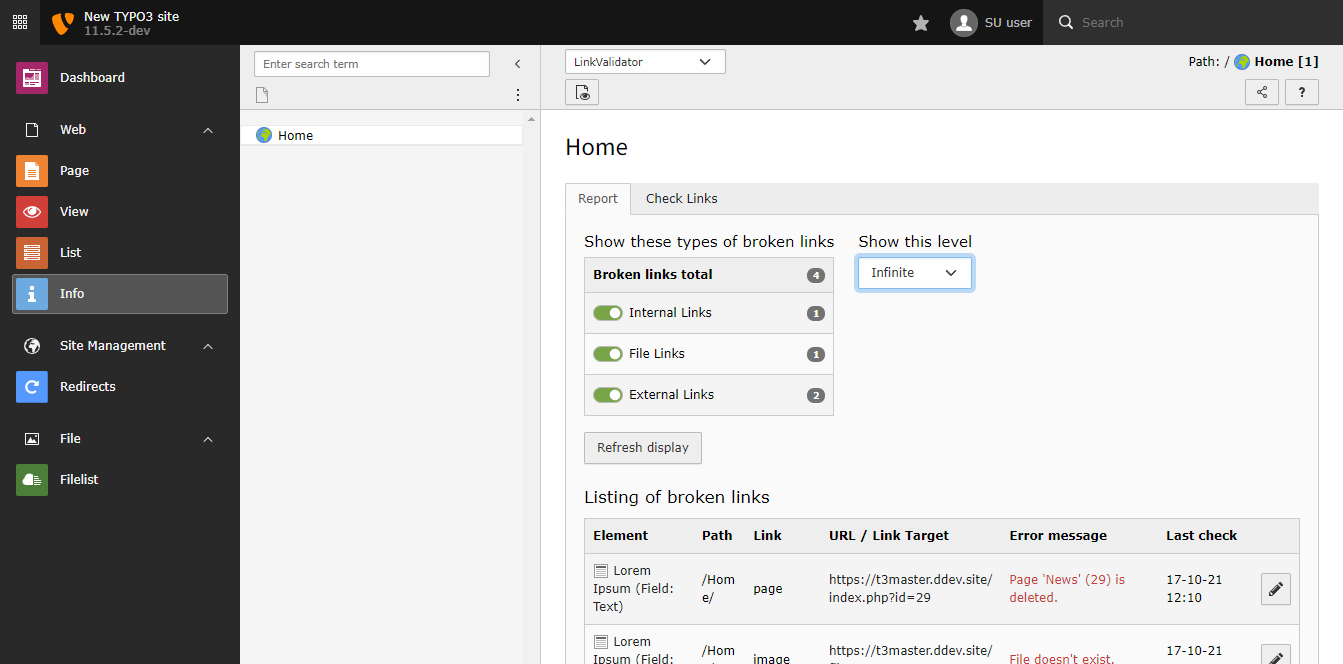
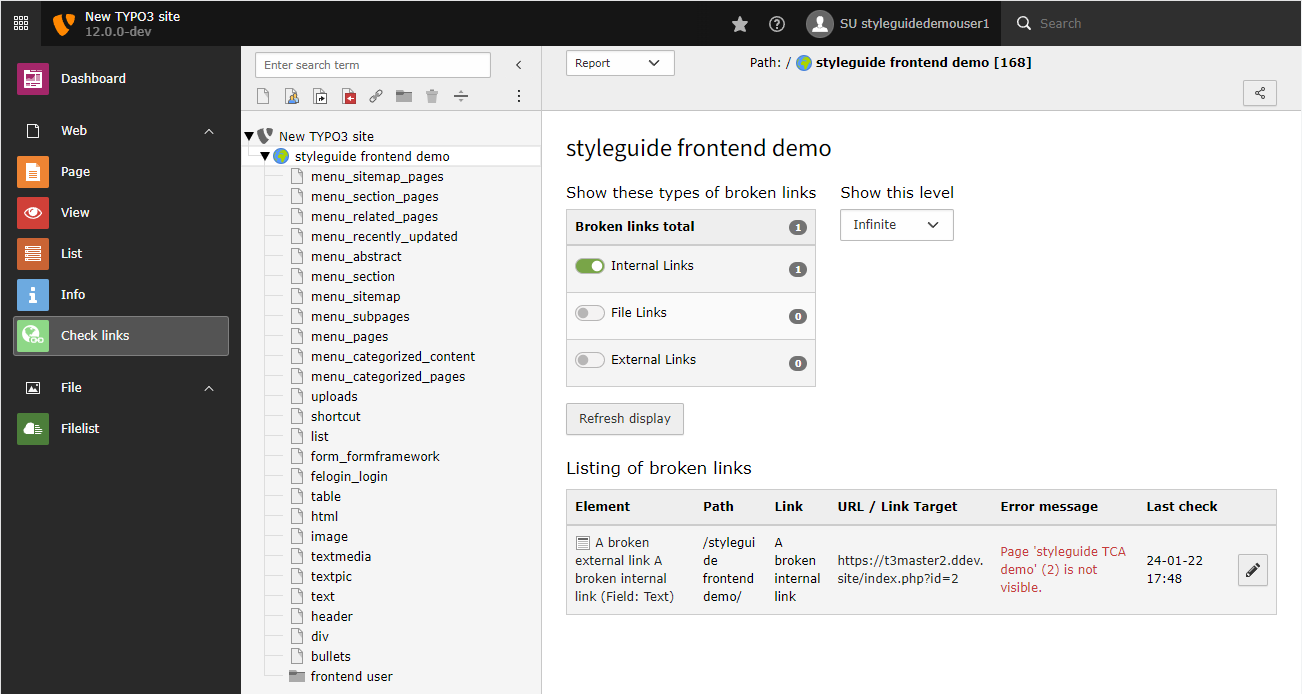
[DOCS]  Document the new LinkValidator module
The LinkValidator is an own module called "Check Links". Replaced affected screenshots and texts.

Resolves: #96633
Releases: main

diff --git a/Documentation/Introduction/Index.rst b/Documentation/Introduction/Index.rst
@@ -57,16 +57,16 @@ It includes the following features:
 Screenshots
 ^^^^^^^^^^^
 
-This is the :guilabel:`LinkValidator` backend module. It is located inside the
-:guilabel:`Info` module and by default provides two tabs: :guilabel:`Report`
-and :guilabel:`Check Links`. The :guilabel:`Report` tab is always shown first.
+This is the :guilabel:`Check Links` backend module. It provides two actions:
+:guilabel:`Report` and :guilabel:`Check Links`. The :guilabel:`Report` action
+is always shown first.
 Here you can view the broken links which were found, when your website was
 last checked.
 
 .. figure:: ../Images/ReportsTab.png
-   :alt: The Reports tab
+   :alt: The Reports action
 
-   Viewing broken links in the Reports tab
+   Viewing broken links in the :guilabel:`Report` action
 
 
 The :guilabel:`Check Links` tab is used to check links on demand and can be

diff --git a/Documentation/Editors/Index.rst b/Documentation/Editors/Index.rst
@@ -13,14 +13,13 @@ It is intended for a non-technical audience.
 LinkValidator Report
 ====================
 
-#. First, select the page you want to work on in the page tree
-#. Access the Info module.
-#. In the top menu, select :guilabel:`LinkValidator`.
+#. Access the module :guilabel:`Check Links`.
+#. Select the page you want to work on in the page tree
 
 .. figure:: ../Images/EditorReports.png
-   :alt: Access LinkValidator Report via Info module
+   :alt: Access LinkValidator Report via "Check Links" module
 
-   Access LinkValidator Report via Info module
+   Access LinkValidator Report via "Check Links" module
 
 You will now see the :guilabel:`Report` with the list of broken links.
 In order to get results, select the checkboxes ("Internal Links",
